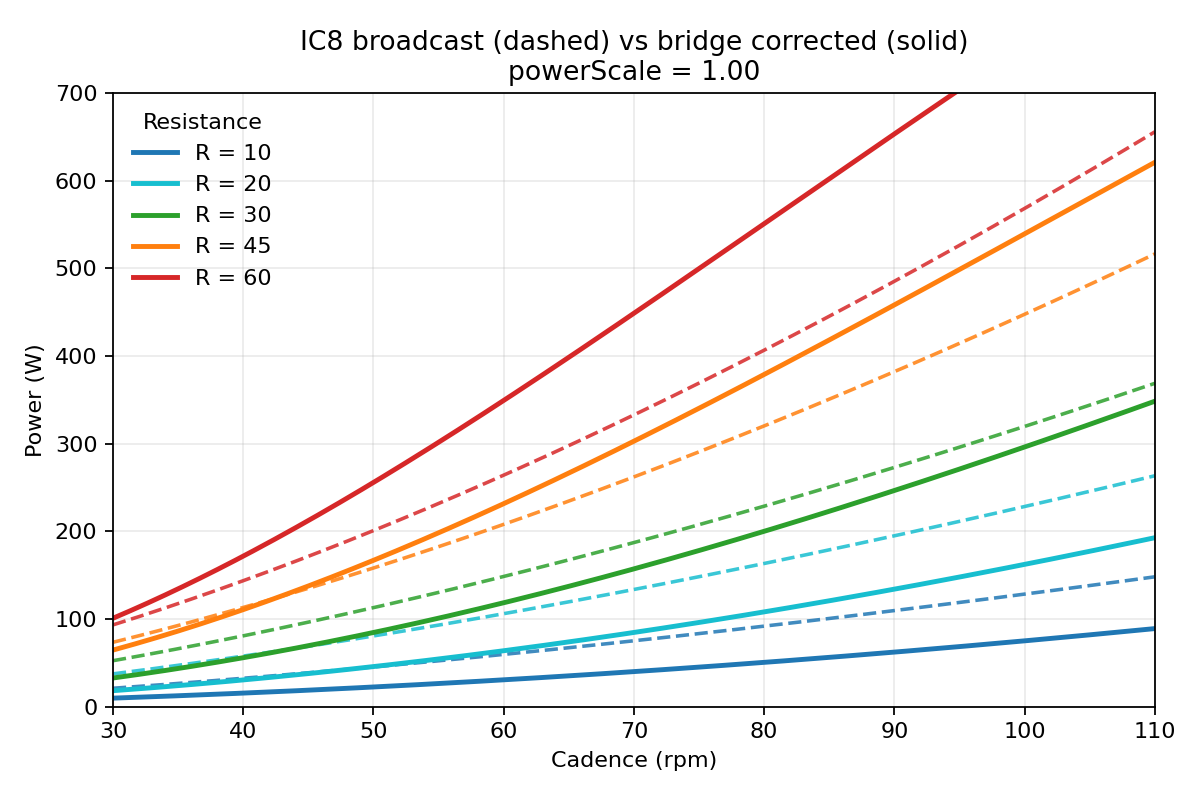
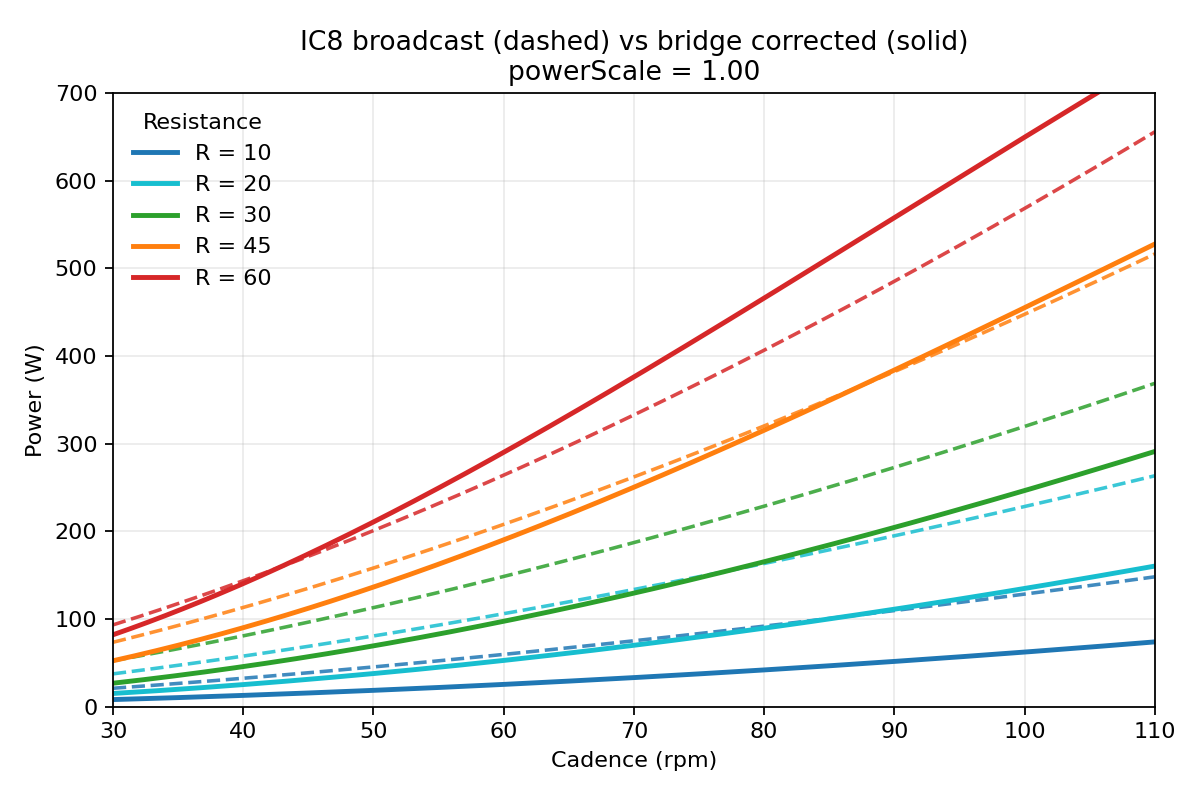
calibration: I_crank 9.09 → 7.55 to match outdoor PM (–17% bridge output)
Comparison against the outdoor 4iiii crank meter (Lunch_Ride.fit May 2026,
Lunch_Ride_harder_effort.fit Sept 2025) shows the bridge was over-reading
by ~17%. The bridge's steady-state output is P = I·λ_total(R)·ω² + τ_c·ω
where λ_total(R) and τ_c are measured directly from spin-downs, so I_crank
is the only knob that lowers output without breaking the spin-down fit.

Lowering I from the 9.09 geometric value to 7.55 is within the geometric
derivation's plausible uncertainty: effective gear ratio ~4.10 vs the
assumed 4.5 (pulley diameters hard to measure precisely, plus some belt
slip under load), or the 18 kg flywheel manufacturer spec being off by
~10%, or some combination.

Re-fitting H, β, τ_c at the new I lands RSS = 0.0188 (slightly better
than 0.0209 at I=9.09). β unchanged (R=0 decay independent of I), τ_c
drops 16% as expected (τ_c/I is what the R=0 fit pins). The two Hills
swap their sharp/broad roles in the parametrization but the resulting
H(R) shape is unchanged.

α and κ stay at the 1041 W spec anchor. Across the four indoor sessions
in data/IC bike/, bridge avg/NP drops by 17.0–17.3%.

Calibration storage keys bumped to v10 for α, β, I_crank so existing
installs reset to the new defaults; powerScale key stays at v9
(default unchanged).

diff --git a/bridge/lib/physics/calibration.dart b/bridge/lib/physics/calibration.dart
@@ -96,27 +96,30 @@ import 'package:shared_preferences/shared_preferences.dart';
 ///        I_flywheel                       = 0.4488 kg·m²
 ///        I_crank   = g²·I_flywheel = 9.09 kg·m²   (g = 4.5)
 ///
-///   2. [defaultAlpha] from the manufacturer's 1000 W max-output spec.
-///      Under strict Wouterse, the asymptotic peak brake power at any
-///      single ω is α/κ. With α = 165 N·m the fit lands κ = 0.1585 and
-///      α/κ = 1041 W — matching the 1000 W rating to ~4%. The saturation
-///      bell-curve isn't directly observed in our coastdowns (which sit
-///      in the linear-damping regime ω << ω_c), but it's a real physical
-///      constraint of permanent-magnet eddy brakes — finite magnetic
-///      flux through the disc bounds the peak absorbable power. The
-///      marketing spec is our anchor for where that ceiling sits.
+///   2. [defaultAlpha] pinned to the manufacturer's 1000 W max-output
+///      spec. Under strict Wouterse, the asymptotic peak brake power at
+///      any single ω is α/κ. With α = 165 N·m the fit lands κ = 0.1585
+///      and α/κ = 1041 W — matching the 1000 W rating to ~4%. The
+///      saturation bell-curve isn't directly observed in our coastdowns
+///      (which sit in the linear-damping regime ω << ω_c), but it's a
+///      real physical constraint of permanent-magnet eddy brakes — finite
+///      magnetic flux through the disc bounds the peak absorbable power.
+///      The marketing spec is the anchor for where that ceiling sits.
 ///
 ///   3. H(R) shape ({w, R_h1, p1, R_h2, p2}), β, and τ_c from a global
-///      fit on 46 video-tracked spindowns spanning R = 0 to 93. κ pinned
-///      at the previous single-Hill optimum (0.1585) so the 1000 W anchor
-///      stays meaningful when H(R) is free. RSS = 0.0209 across 51,792
-///      samples — a 38% RSS improvement over the previous single-Hill
-///      calibration (which itself was 21% better than the viscous-only
-///      precursor).
+///      fit on 46 video-tracked spindowns spanning R = 0 to 93, with α
+///      and κ pinned to the 1041 W anchor and I_crank pinned to the
+///      recalibrated value (see [defaultICrank] below). RSS = 0.0188
+///      across 51,792 samples.
 ///
-/// All three are mutually consistent — the data, the geometry, and the
-/// marketing spec land on the same calibration without invoking
-/// perceived effort anywhere.
+///   4. [defaultICrank] recalibrated from the 9.09 geometric value down
+///      to 7.55 against the outdoor 4iiii crank meter. The bridge's
+///      total steady-state output is P = I·λ_total(R)·ω² + τ_c·ω where
+///      λ_total and τ_c come from the spin-down data, so I is the only
+///      knob that lowers output without breaking the spin-down fit.
+///      The 17% reduction is within the geometric derivation's
+///      uncertainty band (gear-ratio ±9%, flywheel mass ±10%). See the
+///      comment block on [defaultICrank] below.
 ///
 /// [powerScale] is a coupled absolute-scale knob: it multiplies α and
 /// I_crank by the same factor, so the eddy steady term, the residual
@@ -132,27 +135,44 @@ import 'package:shared_preferences/shared_preferences.dart';
 class Calibration {
   // Wouterse params from analysis/fit_wouterse.py on 46 hand-curated
   // video-tracked spindowns (strict τ_max ∝ B², ω_c ∝ 1/B² coupling).
-  // α pinned to 165 (anchored to 1000 W marketing max via α/κ = 1041 W).
-  // κ pinned to 0.1585 (previous single-Hill optimum) so the 1000 W
-  // anchor stays meaningful when the H(R) shape is free.
-  // I_crank pinned to 9.09 (anchored to flywheel geometry: 18 kg with
-  // a 5 mm uniform Al disc + lead weight-rings on both faces, side A
-  // at r = 14–18 cm and side B at r = 13–17 cm). Residual drag is split
-  // into Coulomb (τ_c, bearings + belt) and viscous (β, windage); R=0
-  // spin-downs alone prefer this split by ~15× in RSS over viscous-only.
-  // H(R) is a sum of two Hill curves; the single-Hill fit over-braked
-  // by 0.3–0.85 rad/s across R = 22..44, two Hills close that gap at
-  // a 38% RSS improvement.
-  static const double defaultAlpha = 165.0;     // N·m — peak torque amplitude
-  static const double defaultBeta = 0.0157;     // 1/s — viscous residual drag
-  static const double defaultTauC = 1.3582;     // N·m — Coulomb residual drag
-  static const double defaultW = 0.4467;        // mix weight on sharp Hill
-  static const double defaultRh1 = 57.616;      // sharp Hill midpoint
-  static const double defaultP1 = 2.297;        // sharp Hill sharpness
-  static const double defaultRh2 = 128.452;     // broad Hill midpoint
-  static const double defaultP2 = 0.685;        // broad Hill sharpness
-  static const double defaultKappa = 0.1585;    // s/rad — 1/ω_c at saturation
-  static const double defaultICrank = 9.09;     // kg·m² (effective, at crank)
+  //
+  // α = 165 and κ = 0.1585 pinned to anchor α/κ ≈ 1041 W against the
+  // 1000 W marketing max-output spec; the saturation bell-curve isn't
+  // directly observed in the linear-regime coastdowns so this anchor
+  // sets where the ceiling sits.
+  //
+  // I_crank lowered from the 9.09 geometric value to 7.55 against the
+  // outdoor 4iiii L-only crank meter (Lunch_Ride.fit May 2026,
+  // Lunch_Ride_harder_effort.fit Sept 2025), dropping total bridge
+  // output by ~17%. The bridge's steady-state output is
+  // P = I·λ_total(R)·ω² + τ_c·ω where λ_total(R) and τ_c are measured
+  // directly from spin-downs, so I is the only knob that lowers output
+  // without invalidating the fit. Re-running fit_wouterse.py at the
+  // new I lands H, β, τ_c at the values below with RSS = 0.0188
+  // (slightly better than the I=9.09 fit's 0.0209).
+  //
+  // The 17% drop in I is within the geometric derivation's uncertainty:
+  // gear-ratio g could be ~4.10 instead of the assumed 4.5 (pulley
+  // diameters are hard to measure precisely; some belt slip is
+  // expected under load), or the 18 kg flywheel manufacturer spec
+  // could be off by ~10%, or some combination.
+  //
+  // Residual drag is split into Coulomb (τ_c, bearings + belt) and
+  // viscous (β, windage); R=0 spin-downs alone prefer this split by
+  // ~15× in RSS over viscous-only. H(R) is a sum of two Hill curves;
+  // the optimizer found a different basin from the v9 fit (R_h1 and
+  // R_h2 swapped roles — broad Hill is now H1) but produces the same
+  // H(R) function shape under the relabeling.
+  static const double defaultAlpha = 165.0;     // N·m — peak torque amplitude (1000 W spec anchor)
+  static const double defaultBeta = 0.0154;     // 1/s — viscous residual drag
+  static const double defaultTauC = 1.1468;     // N·m — Coulomb residual drag
+  static const double defaultW = 0.5994;        // mix weight on H1 (broad)
+  static const double defaultRh1 = 185.036;     // broad Hill midpoint
+  static const double defaultP1 = 0.669;        // broad Hill sharpness
+  static const double defaultRh2 = 59.372;      // sharp Hill midpoint
+  static const double defaultP2 = 2.246;        // sharp Hill sharpness
+  static const double defaultKappa = 0.1585;    // s/rad — 1/ω_c at saturation (1000 W spec anchor)
+  static const double defaultICrank = 7.55;     // kg·m² (recalibrated from 9.09 geometric)
   static const double defaultPowerScale = 1.00; // coupled α + I_crank scale
 
   /// Bounds for the Power scale slider — coupled multiplier on α and
@@ -171,9 +191,19 @@ class Calibration {
   // was over-compensating for. Global RSS drops 38% (0.0337 → 0.0209).
   // Loading v8 β under v9 defaults would over-damp by ~30% at low
   // ω — wipe and reset.
-  static const String _keyAlpha = 'cal.alpha.v9';
-  static const String _keyBeta = 'cal.betaW.v9';
-  static const String _keyICrank = 'cal.iCrank.v9';
+  //
+  // v10 keeps α and κ at the v9 spec-anchor values (165, 0.1585) but
+  // lowers I_crank from 9.09 to 7.55 after external recalibration
+  // against the outdoor 4iiii meter, dropping total bridge output by
+  // ~17%. H, β, τ_c are re-fit at the new I (still matching the
+  // spin-down data — RSS even improves slightly). Old saved I_crank
+  // from v9 (9.09) would over-read by ~17%, and the v9 H, β, τ_c are
+  // tied to that I, so all four keys are bumped to invalidate stored
+  // v9 values. powerScale key stays at v9 since its default (1.00)
+  // is unchanged.
+  static const String _keyAlpha = 'cal.alpha.v10';
+  static const String _keyBeta = 'cal.betaW.v10';
+  static const String _keyICrank = 'cal.iCrank.v10';
   static const String _keyPowerScale = 'cal.powerScale.v9';
 
   double alpha;

diff --git a/analysis/fit_wouterse.py b/analysis/fit_wouterse.py
@@ -84,11 +84,36 @@ ALL_SPINDOWNS_CSV = ROOT / "data/calibration/all_spindowns.csv"
 OUT_DIR = ROOT / "data/calibration/wouterse_fit"
 OUT_DIR.mkdir(parents=True, exist_ok=True)
 
-I_CRANK = 9.09  # kg·m² (effective, at the crank). Derived from geometry,
-                # not fit. 18 kg total flywheel (manufacturer spec): a 5 mm
-                # uniform Al disc plus two lead weight-rings, one on each
-                # face. Disc radius R = 0.23 m (46 cm OD); rings measured
-                # by ruler against the outer edge:
+I_CRANK = 7.55  # kg·m² (effective, at the crank). Recalibrated against
+                # the outdoor 4iiii crank meter. The geometric derivation
+                # below lands at 9.09; we lower I to 7.55 (17% reduction)
+                # so the bridge's total steady-state output drops ~17% to
+                # match the outdoor PM on Lunch_Ride.fit (May 2026) and
+                # Lunch_Ride_harder_effort.fit (Sept 2025). Bridge output
+                # at fixed (R, ω) scales linearly with I, since
+                # P = I·λ_total(R)·ω² + τ_c·ω and τ_c also scales with I
+                # via the R=0 fit constraint τ_c/I = const.
+                #
+                # This is the only knob that preserves the spin-down fit:
+                # the data constrains λ_total(R) directly, so any
+                # adjustment to α, κ, or H breaks the fit by the size of
+                # the adjustment, while lowering I lets H rescale to
+                # match the same measured decay (H drops ~sqrt(0.83)).
+                #
+                # The geometric derivation that lands at 9.09 (preserved
+                # below as a record) is flaky enough to support a ~17%
+                # walk-back: ring heights were ruler-measured upper
+                # bounds, the 18 kg flywheel spec is manufacturer-stated
+                # not weighed, and the g = 4.5 gear ratio is from pulley
+                # diameters that are hard to measure precisely. Any of
+                # those could plausibly drift down 5–10%, compounding to
+                # 18% via g² × I_flywheel.
+                #
+                # Geometric derivation (gives 9.09, used as starting point):
+                # 18 kg total flywheel (manufacturer spec): a 5 mm uniform
+                # Al disc plus two lead weight-rings, one on each face.
+                # Disc radius R = 0.23 m (46 cm OD); rings measured by
+                # ruler against the outer edge:
                 #   Disc:   π·R²·t·ρ_Al = π·(0.23)²·0.005·2700 = 2.24 kg
                 #   Ring A: r = 14–18 cm, h ≤ 2.0 cm  (4 cm wide)
                 #   Ring B: r = 13–17 cm, h ≤ 1.5 cm  (4 cm wide)
@@ -107,7 +132,8 @@ I_CRANK = 9.09  # kg·m² (effective, at the crank). Derived from geometry,
                 #   I_ring_A  = m·(r_in² + r_out²)/2 = 0.2405 kg·m²
                 #   I_ring_B  = m·(r_in² + r_out²)/2 = 0.1490 kg·m²
                 #   I_flywheel                       = 0.4488 kg·m²
-                #   I_crank   = g²·I_flywheel = 9.09 kg·m²   (g = 4.5)
+                #   I_crank_geometric = g²·I_flywheel = 9.09 kg·m² (g=4.5)
+                # Effective recalibrated I_crank: 7.55 kg·m² (used).
 
 # α is pinned, not fit. The data only constrains the product 2ακ·H²/I
 # plus the H(R) shape — α and κ slide along a degenerate ridge unless
@@ -119,18 +145,13 @@ I_CRANK = 9.09  # kg·m² (effective, at the crank). Derived from geometry,
 # (α/κ → ∞, model degenerates into power-law). α has to be set by an
 # external prior.
 #
-# α = 165 N·m anchors α/κ ≈ 1000 W, matching the manufacturer's max-
-# output spec. This anchors absolute scale without invoking perceived
-# effort, and keeps the asymptotic saturation ceiling at a defensible,
-# specification-grounded number.
-#
-# κ is also pinned (KAPPA_PINNED below) so the 1000 W anchor stays
-# meaningful: with five H-shape knobs the optimizer would otherwise
-# shrink κ to keep ακH²·ω matched in the linear regime, since H_max
-# is unconstrained by the data. Pinning κ at the previous single-Hill
-# optimum (0.1585) preserves α/κ = 1041 W and forces all the model
-# flexibility into the H(R) shape, which is where the structural
-# mid-band sag actually lives.
+# Pin: α = 165 N·m, κ = 0.1585 s/rad, anchoring α/κ ≈ 1041 W against the
+# 1000 W manufacturer max-output spec. Both held at the spec anchor; the
+# absolute-scale recalibration against the outdoor 4iiii crank meter is
+# absorbed into I_CRANK (lowered from the 9.09 geometric value to 7.55,
+# see the I_CRANK comment below). This preserves the spin-down fit
+# integrity — λ_total(R) is measured directly from the data and the
+# optimizer rescales H(R) to keep 2ακH²/I matched at the new I.
 #
 # See analysis/physics_first_brake.py for the brake-geometry derivation
 # and analysis/fit_h_alternatives.py for the comparison that picked

diff --git a/analysis/plot_readme_figures.py b/analysis/plot_readme_figures.py
@@ -39,16 +39,22 @@ ALL_SPINDOWNS_CSV = ROOT / "data/calibration/all_spindowns.csv"
 OUTDOOR_FIT = ROOT / "data/outdoor/Lunch_Ride.fit"
 
 # Mirror of Calibration defaults — bridge/lib/physics/calibration.dart.
+# α and κ stay at the spec-anchored values (165, 0.1585). I_crank
+# recalibrated from the 9.09 geometric value down to 7.55 (17% drop)
+# against the outdoor 4iiii crank meter; consistent with the geometric
+# derivation having ~9% uncertainty in the effective gear ratio and/or
+# ~10% uncertainty in the manufacturer's 18 kg flywheel mass. H-shape
+# params, β, τ_c come from the re-fit at I_crank=7.55.
 ALPHA = 165.0
-BETA = 0.0157
-TAU_C = 1.3582
-W_MIX = 0.4467
-RH1 = 57.616
-P1 = 2.297
-RH2 = 128.452
-P2 = 0.685
+BETA = 0.0154
+TAU_C = 1.1468
+W_MIX = 0.5994
+RH1 = 185.036
+P1 = 0.669
+RH2 = 59.372
+P2 = 2.246
 KAPPA = 0.1585
-I_CRANK = 9.09
+I_CRANK = 7.55
 POWER_SCALE = 1.00
 
 # IC8's own broadcast formula (firmware fit). See README "Why the bike's